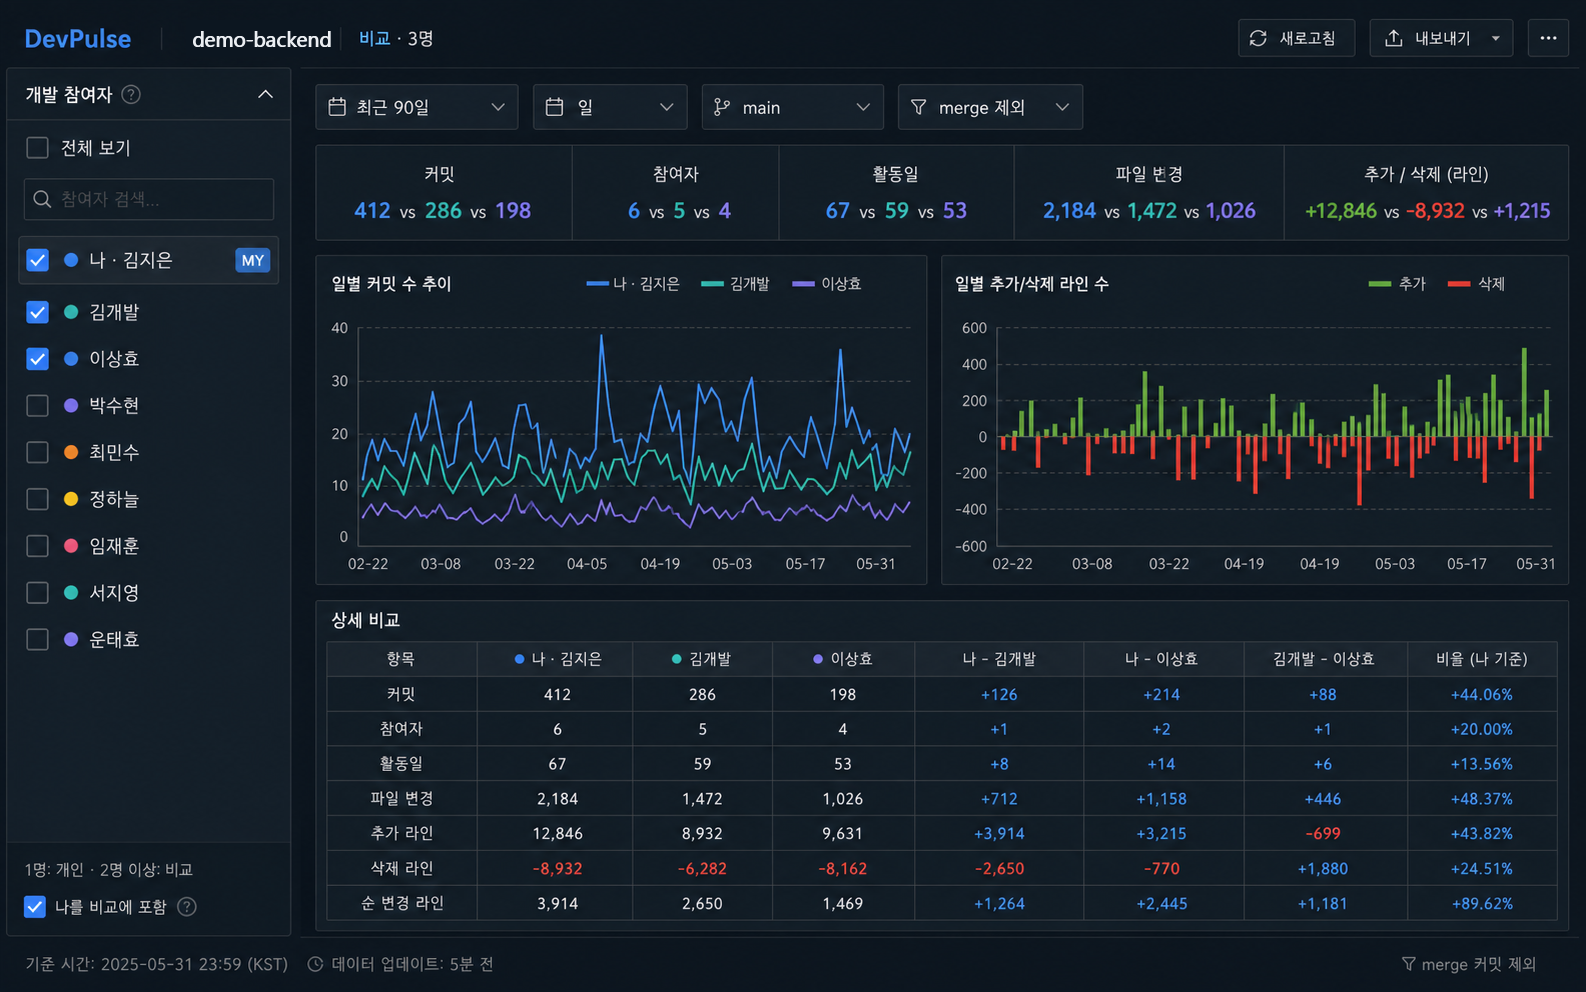
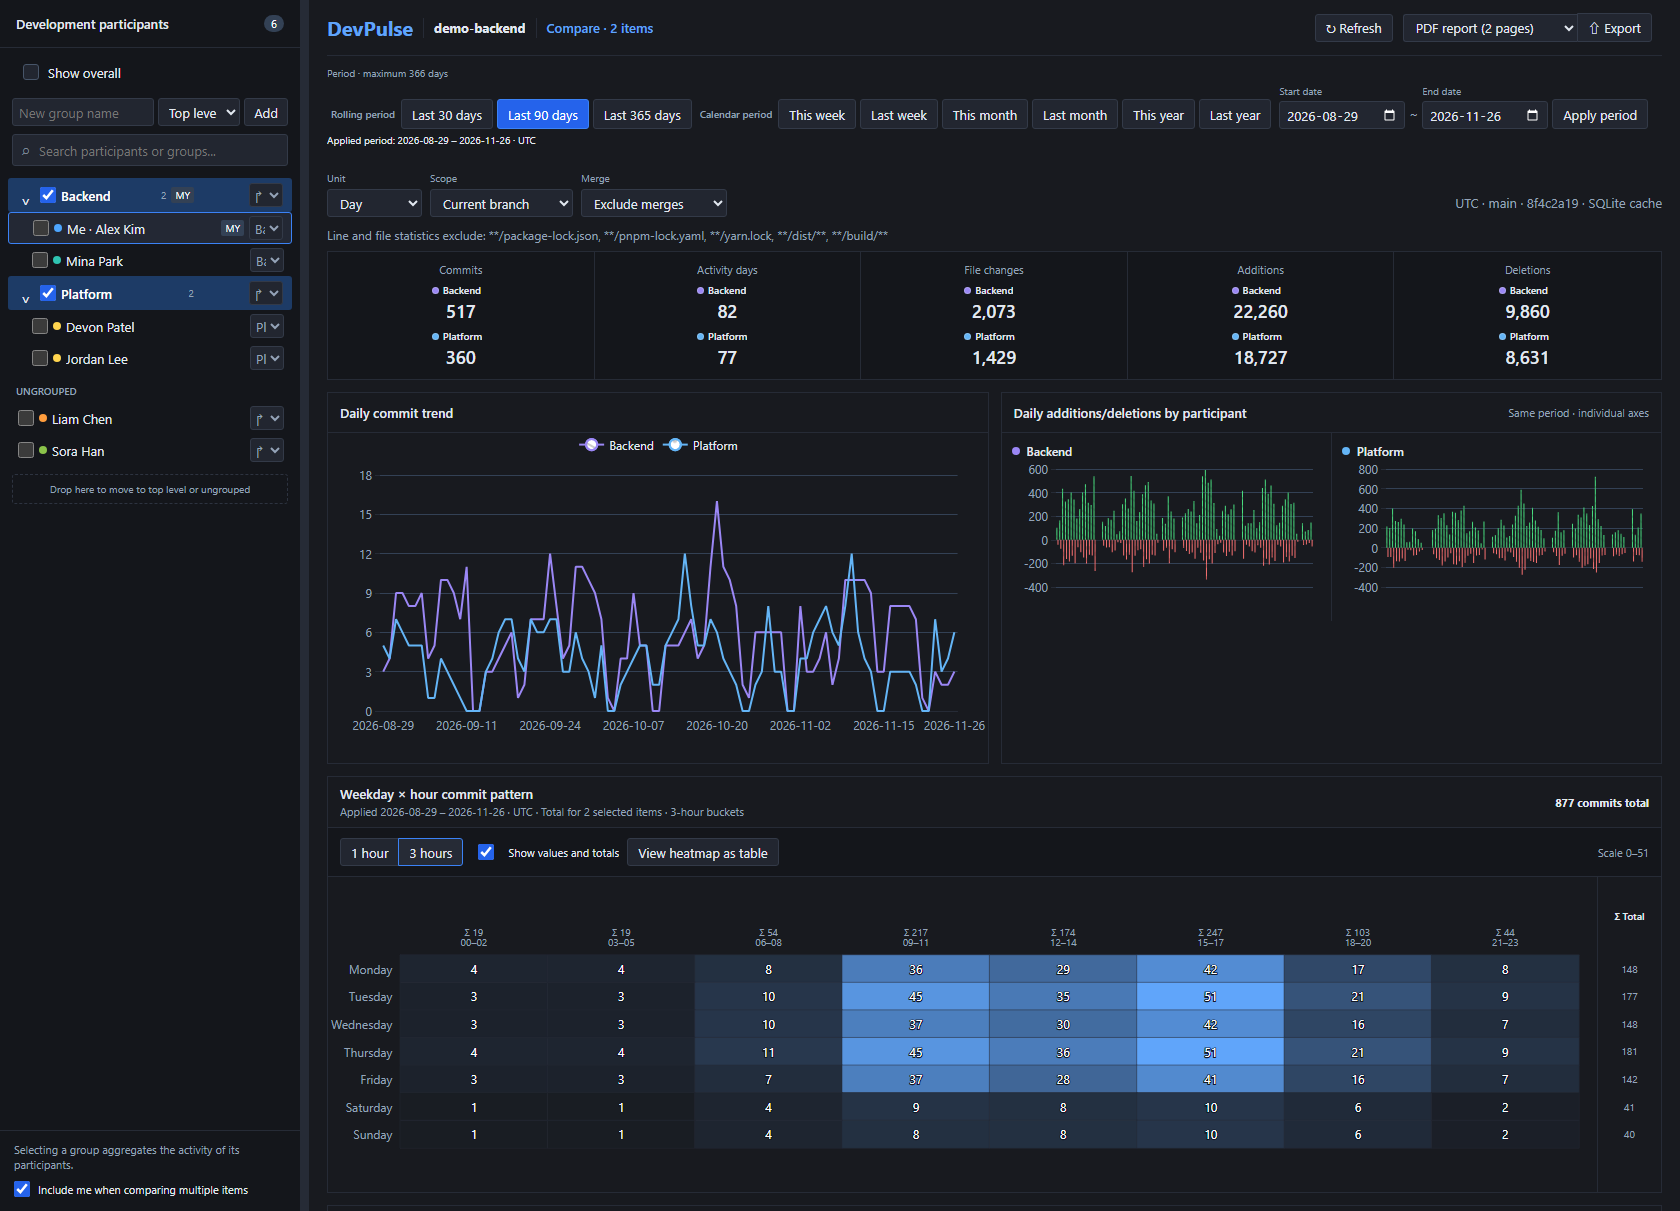
Sync CELLAXON DevPulse copy with local-first Git analytics focus (#1)
* docs: sync CELLAXON DevPulse copy with local-first Git analytics focus

- Update English and Korean DevPulse product copy to remove retired AI agent tracking claims and highlight contributor/group/period analysis, trend charts, weekday-by-hour heatmaps, accessible data tables, two-page PDF/Markdown/CSV exports, on-device caching, and six UI languages.
- Align English and Korean hero, company, HTML metadata, README, and design-system copy with the local-first Git analytics scope.

* docs: refresh CELLAXON DevPulse dashboard screenshot for 0.7.1

- Replace public/assets/products/devpulse-dashboard.png with a genuine 0.7.1 Repository Statistics capture (1680x1211) showing participant groups, rolling/calendar period filters, exclusion pattern notice, comparison charts, 2-page PDF export selector, and weekday-by-hour heatmap using synthetic demo data.
- Update image dimensions in src/App.tsx and localized mediaAlt descriptions in src/content.ts.

* docs: polish Korean DevPulse copy and add 0.7.1 highlights

- Polish Korean DevPulse bullet phrasing to remove awkward translation-ese.
- Add author-date period aggregation and configurable path exclusions (for lockfiles and build outputs) across both English and Korean DevPulse copy while maintaining the 3-bullet card structure.

---------

diff --git a/src/content.ts b/src/content.ts
@@ -46,16 +46,16 @@ export const copy = {
         mediaAlt: "Ranvier website showing a typed decision schematic",
       },
       devpulse: {
-        subtitle: "Local-first Git analytics and AI agent tracking for VS Code",
-        statement: "See who changed what, and what your AI agents actually did.",
+        subtitle: "Local-first Git analytics for VS Code",
+        statement: "See how a repository changed over time and who contributed, right inside VS Code.",
         points: [
-          "Explore Git activity dashboards without leaving VS Code.",
-          "Trace Codex and Claude sessions back to the exact files, tests, diffs, and commits they touched.",
-          "Keep everything local—your repository and agent data never leave your machine.",
+          "Compare contributors and custom groups by author-date periods using trend charts, weekday-by-hour heatmaps, and accessible data tables.",
+          "Customize path exclusions for lockfiles and build outputs, and export local Markdown, CSV, or two-page PDF reports with heatmap values and totals.",
+          "Keep all analysis and caching on your machine across six UI languages—your repository data is never uploaded.",
         ],
         action: "View on VS Code Marketplace",
         openVsxAction: "View on Open VSX",
-        mediaAlt: "CELLAXON DevPulse Git activity analytics dashboard",
+        mediaAlt: "CELLAXON DevPulse dashboard showing participant groups, daily Git trends, and a weekday-by-hour commit heatmap",
       },
       haven: {
         subtitle: "WSL container management for Windows",
@@ -102,7 +102,7 @@ export const copy = {
     company: {
       label: "Company",
       title: "Making complex software clear.",
-      body: "Based in Hwaseong, South Korea, CELLAXON builds software for developers and engineering teams. We focus on tools that turn opaque workflows—from backend decision logic to AI-assisted coding and local containers—into systems you can clearly see and verify.",
+      body: "Based in Hwaseong, South Korea, CELLAXON builds software for developers and engineering teams. We focus on tools that turn opaque workflows—from backend decision logic to Git history and local containers—into systems you can clearly see and verify.",
       addressLabel: "Address",
       address: "202-2409, 143 Dongtangambaesan-ro, Hwaseong-si, Gyeonggi-do, Republic of Korea",
       emailLabel: "Email",
@@ -138,7 +138,7 @@ export const copy = {
     hero: {
       titleLead: "복잡한 시스템을",
       titleAccent: "한눈에.",
-      body: "코드 속 의사결정 로직부터 개발·AI 작업 이력, 로컬 컨테이너 환경까지. 실행 과정 이면에 가려진 흐름을 눈으로 직접 확인하고 검증하는 개발자 도구를 만듭니다.",
+      body: "코드 속 의사결정 로직부터 Git 활동 이력, 로컬 컨테이너 환경까지. 실행 과정 이면에 가려진 흐름을 눈으로 직접 확인하고 검증하는 개발자 도구를 만듭니다.",
       primary: "제품 살펴보기",
       secondary: "문의하기",
       visualAlt: "CELLAXON을 상징하는 코랄, 마젠타, 바이올렛 색상의 신경 신호 그래픽",
@@ -165,16 +165,16 @@ export const copy = {
         mediaAlt: "타입 기반 의사결정 구조도가 보이는 Ranvier 웹사이트",
       },
       devpulse: {
-        subtitle: "Git 활동과 AI 에이전트 작업을 분석하는 VS Code 확장",
-        statement: "누가 무엇을 바꿨는지, AI 에이전트가 실제로 어떤 작업을 수행했는지 확인하세요.",
+        subtitle: "VS Code용 로컬 우선 Git 활동 분석 확장",
+        statement: "저장소가 기간별로 어떻게 바뀌고 누가 기여했는지 VS Code 안에서 바로 확인합니다.",
         points: [
-          "별도 도구 없이 VS Code 안에서 Git 활동 대시보드를 바로 확인합니다.",
-          "Codex·Claude 세션을 실제 수정한 파일, 테스트, 변경 내역(diff), 커밋 기록과 연결해 추적합니다.",
-          "모든 분석은 로컬에서 이루어지며, 저장소와 에이전트 데이터는 외부로 전송되지 않습니다.",
+          "커밋 작성일 기준으로 기간별 추이를 집계하고, 참여자·팀 그룹별 활동을 차트와 요일·시간대 히트맵, 데이터 표로 비교합니다.",
+          "lockfile·빌드 산출물 등은 경로 제외 패턴으로 걸러내고, 히트맵 수치와 합계를 담은 2페이지 PDF·Markdown·CSV 리포트로 내보냅니다.",
+          "모든 분석과 캐시는 PC 안에서만 처리되어 저장소 데이터가 외부로 전송되지 않으며, 한국어를 포함한 6개 언어를 지원합니다.",
         ],
         action: "VS Code Marketplace에서 보기",
         openVsxAction: "Open VSX에서 보기",
-        mediaAlt: "CELLAXON DevPulse의 Git 활동 분석 대시보드",
+        mediaAlt: "참여자 그룹, 일별 Git 추이, 요일·시간대 커밋 히트맵이 표시된 CELLAXON DevPulse 대시보드",
       },
       haven: {
         subtitle: "Windows용 WSL 컨테이너 관리 앱",
@@ -221,7 +221,7 @@ export const copy = {
     company: {
       label: "회사 소개",
       title: "복잡한 개발 문제를 명쾌하게 풀어냅니다.",
-      body: "CELLAXON은 경기도 화성시에 자리한 소프트웨어 기업입니다. 백엔드 의사결정 로직부터 AI 기반 개발 과정, 로컬 컨테이너 환경에 이르기까지, 파악하기 까다로운 개발 현장의 흐름을 직관적으로 확인하고 검증할 수 있는 도구를 만듭니다.",
+      body: "CELLAXON은 경기도 화성시에 자리한 소프트웨어 기업입니다. 백엔드 의사결정 로직부터 Git 활동 이력, 로컬 컨테이너 환경에 이르기까지, 파악하기 까다로운 개발 현장의 흐름을 직관적으로 확인하고 검증할 수 있는 도구를 만듭니다.",
       addressLabel: "주소",
       address: "경기도 화성시 동탄감배산로 143, 202동 2409호",
       emailLabel: "이메일",

diff --git a/src/App.tsx b/src/App.tsx
@@ -31,7 +31,7 @@ const languageMetadata = {
     path: "/ko/",
     locale: "ko_KR",
     title: "CELLAXON — 복잡한 시스템을 한눈에.",
-    description: "CELLAXON은 의사결정 로직, 개발 및 AI 작업 이력, 로컬 컨테이너 환경을 직관적으로 확인하고 검증하는 개발자 도구를 만듭니다.",
+    description: "CELLAXON은 의사결정 로직, Git 활동 이력, 로컬 컨테이너 환경을 직관적으로 확인하고 검증하는 개발자 도구를 만듭니다.",
   },
 } as const;
 
@@ -434,7 +434,7 @@ function Products({ language }: { language: Language }) {
                 <ExternalLink href={DEVPULSE_OPENVSX_URL}>{devpulse.openVsxAction}</ExternalLink>
               </div>
             }
-            media={<ZoomMedia src="/assets/products/devpulse-dashboard.png" alt={devpulse.mediaAlt} width={1586} height={992} labels={zoomLabels} />}
+            media={<ZoomMedia src="/assets/products/devpulse-dashboard.png" alt={devpulse.mediaAlt} width={1680} height={1211} labels={zoomLabels} />}
           />
           <ProductRow
             id="haven"

diff --git a/ko/index.html b/ko/index.html
@@ -6,12 +6,12 @@
     <meta name="theme-color" content="#ffffff" />
     <meta
       name="description"
-      content="CELLAXON은 의사결정 로직, 개발 및 AI 작업 이력, 로컬 컨테이너 환경을 직관적으로 확인하고 검증하는 개발자 도구를 만듭니다."
+      content="CELLAXON은 의사결정 로직, Git 활동 이력, 로컬 컨테이너 환경을 직관적으로 확인하고 검증하는 개발자 도구를 만듭니다."
     />
     <meta property="og:title" content="CELLAXON — 복잡한 시스템을 한눈에." />
     <meta
       property="og:description"
-      content="CELLAXON은 의사결정 로직, 개발 및 AI 작업 이력, 로컬 컨테이너 환경을 직관적으로 확인하고 검증하는 개발자 도구를 만듭니다."
+      content="CELLAXON은 의사결정 로직, Git 활동 이력, 로컬 컨테이너 환경을 직관적으로 확인하고 검증하는 개발자 도구를 만듭니다."
     />
     <meta property="og:type" content="website" />
     <meta property="og:locale" content="ko_KR" />

diff --git a/docs/design/design-system.md b/docs/design/design-system.md
@@ -40,7 +40,7 @@ The gradient is a signature treatment for primary actions and selected display t
 ## Product hierarchy
 
 1. Ranvier is presented as one complete product. Supporting developer tooling is intentionally omitted from the company homepage to keep the portfolio legible.
-2. CELLAXON DevPulse is presented as a separate VS Code product covering local-first Git analytics and AI agent work tracking.
+2. CELLAXON DevPulse is presented as a separate VS Code product covering local-first Git analytics.
 3. Haven Desktop is presented as an unreleased product: an "in preparation" status, real screenshots from the app, no download link or Store badge, and the "not made or endorsed by Microsoft" disclaimer next to it. Copy describes only what the app does today (it manages `wslc` containers; it is not a Docker or Podman front end).
 
 Products are shown as full-width rows that alternate copy and media sides, each with a status, three concrete points, and one action.

diff --git a/README.md b/README.md
@@ -5,7 +5,7 @@ CELLAXON의 공식 회사·제품 홈페이지입니다. React와 Vite를 기반
 ## 소개 범위
 
 - **Ranvier** — Rust를 위한 타입 기반 의사결정 엔진
-- **CELLAXON DevPulse** — VS Code를 위한 로컬 우선 Git 분석 및 AI 에이전트 작업 추적
+- **CELLAXON DevPulse** — VS Code를 위한 로컬 우선 Git 활동 분석 확장
 - **Haven Desktop** — Windows에서 WSL 컨테이너(`wslc`)를 관리하는 데스크톱 앱. Microsoft Store 출시 준비 중이며, 출시 전까지는 "준비 중"으로 표시하고 다운로드 링크를 두지 않습니다.
 
 Ranvier의 보조 개발 도구는 포트폴리오 구조를 명확히 하기 위해 홈페이지에서 별도 제품으로 노출하지 않습니다.
